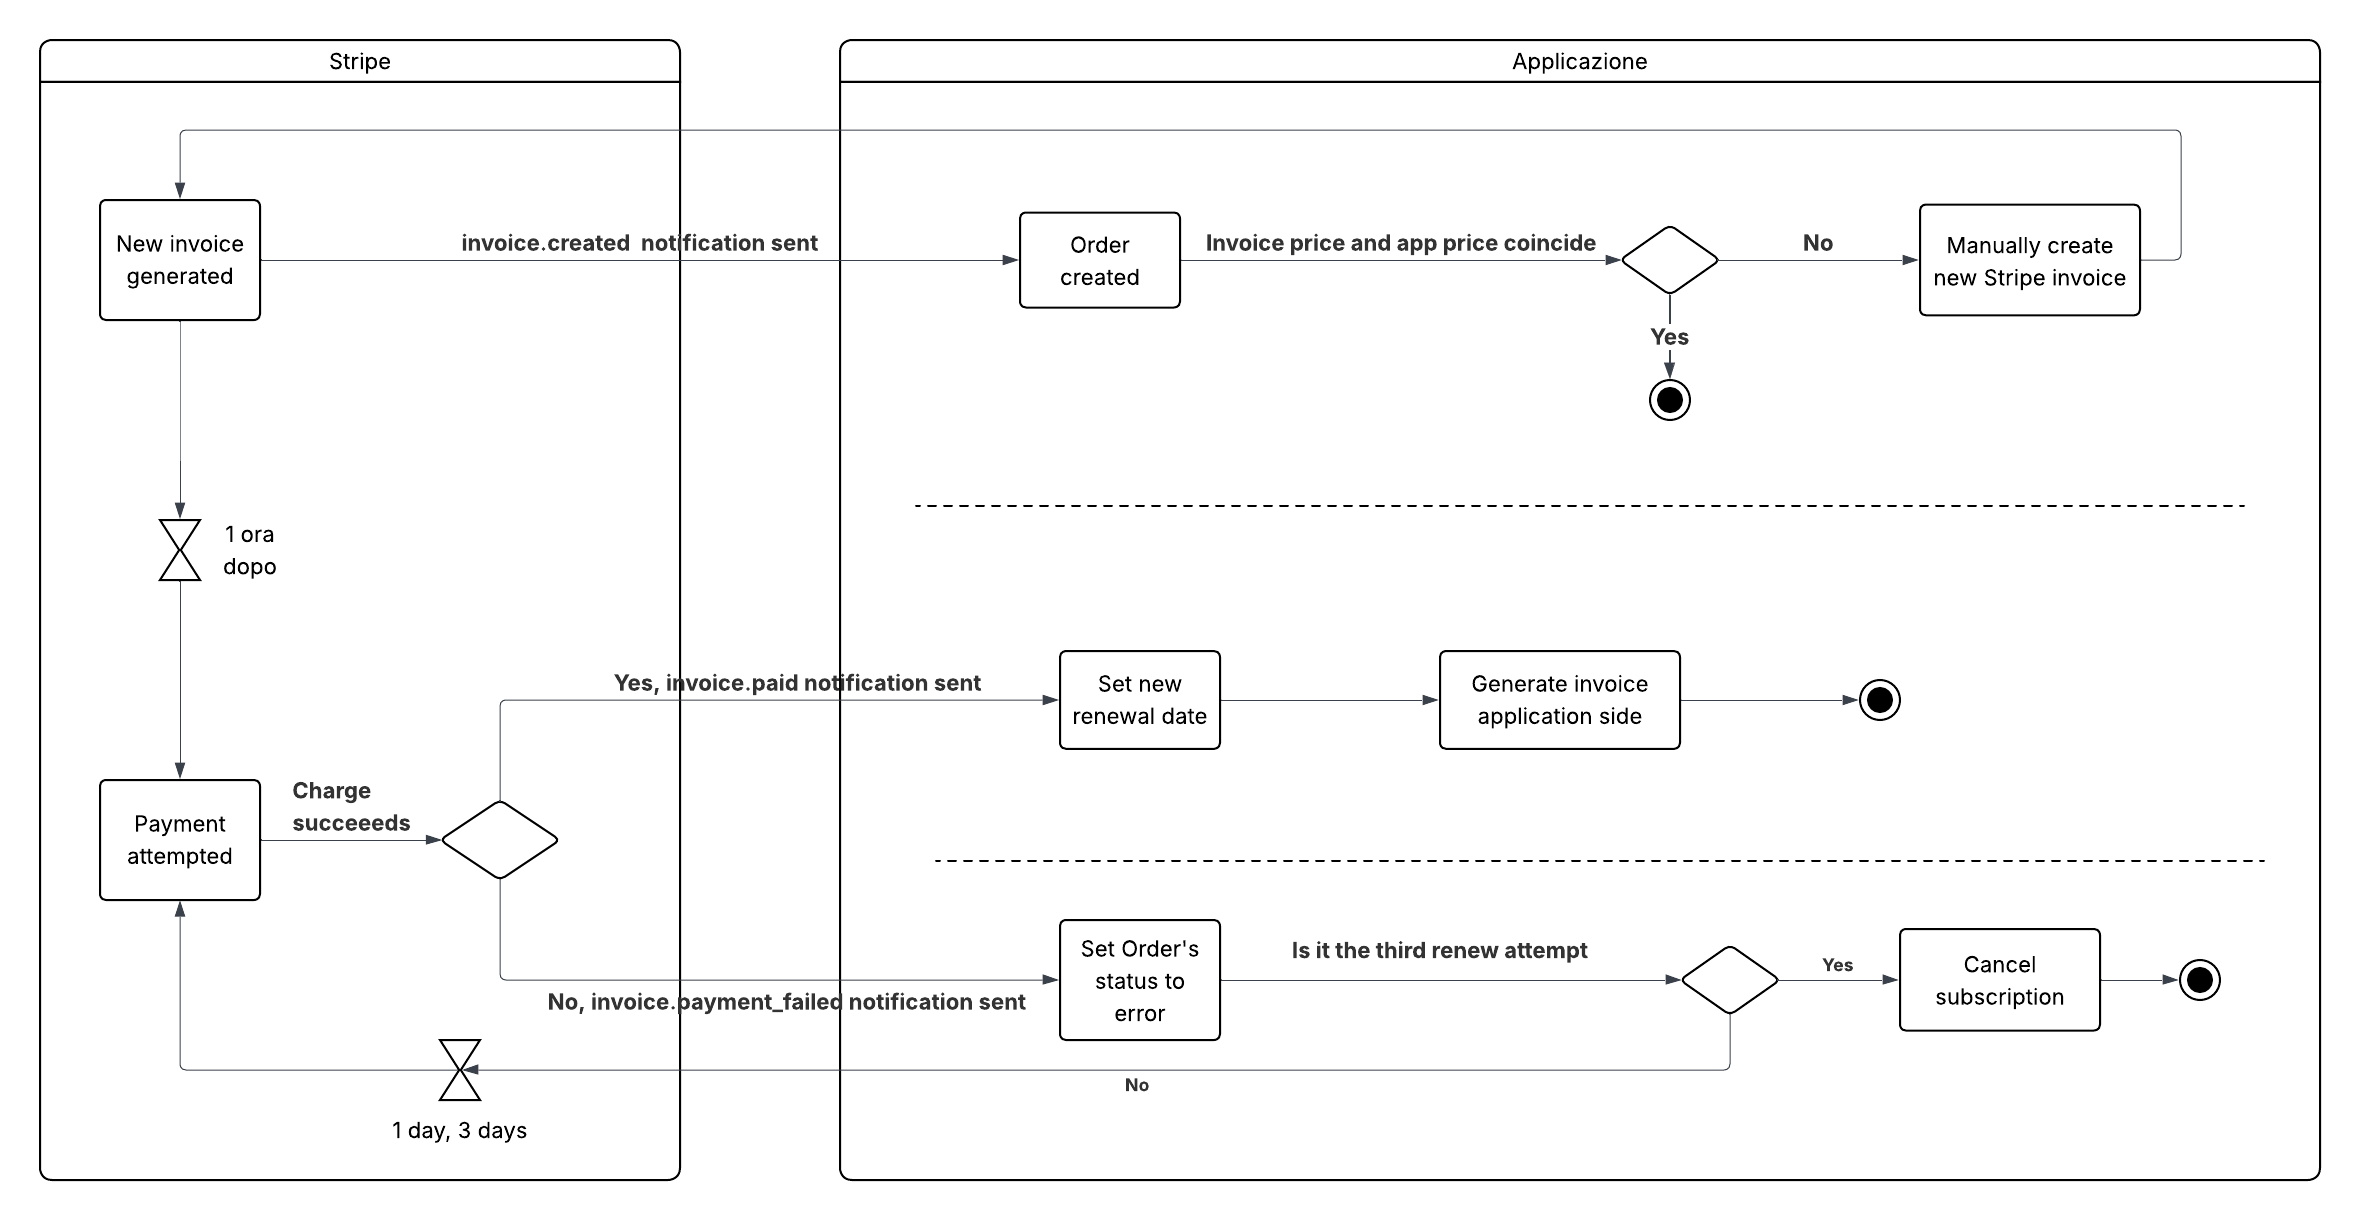
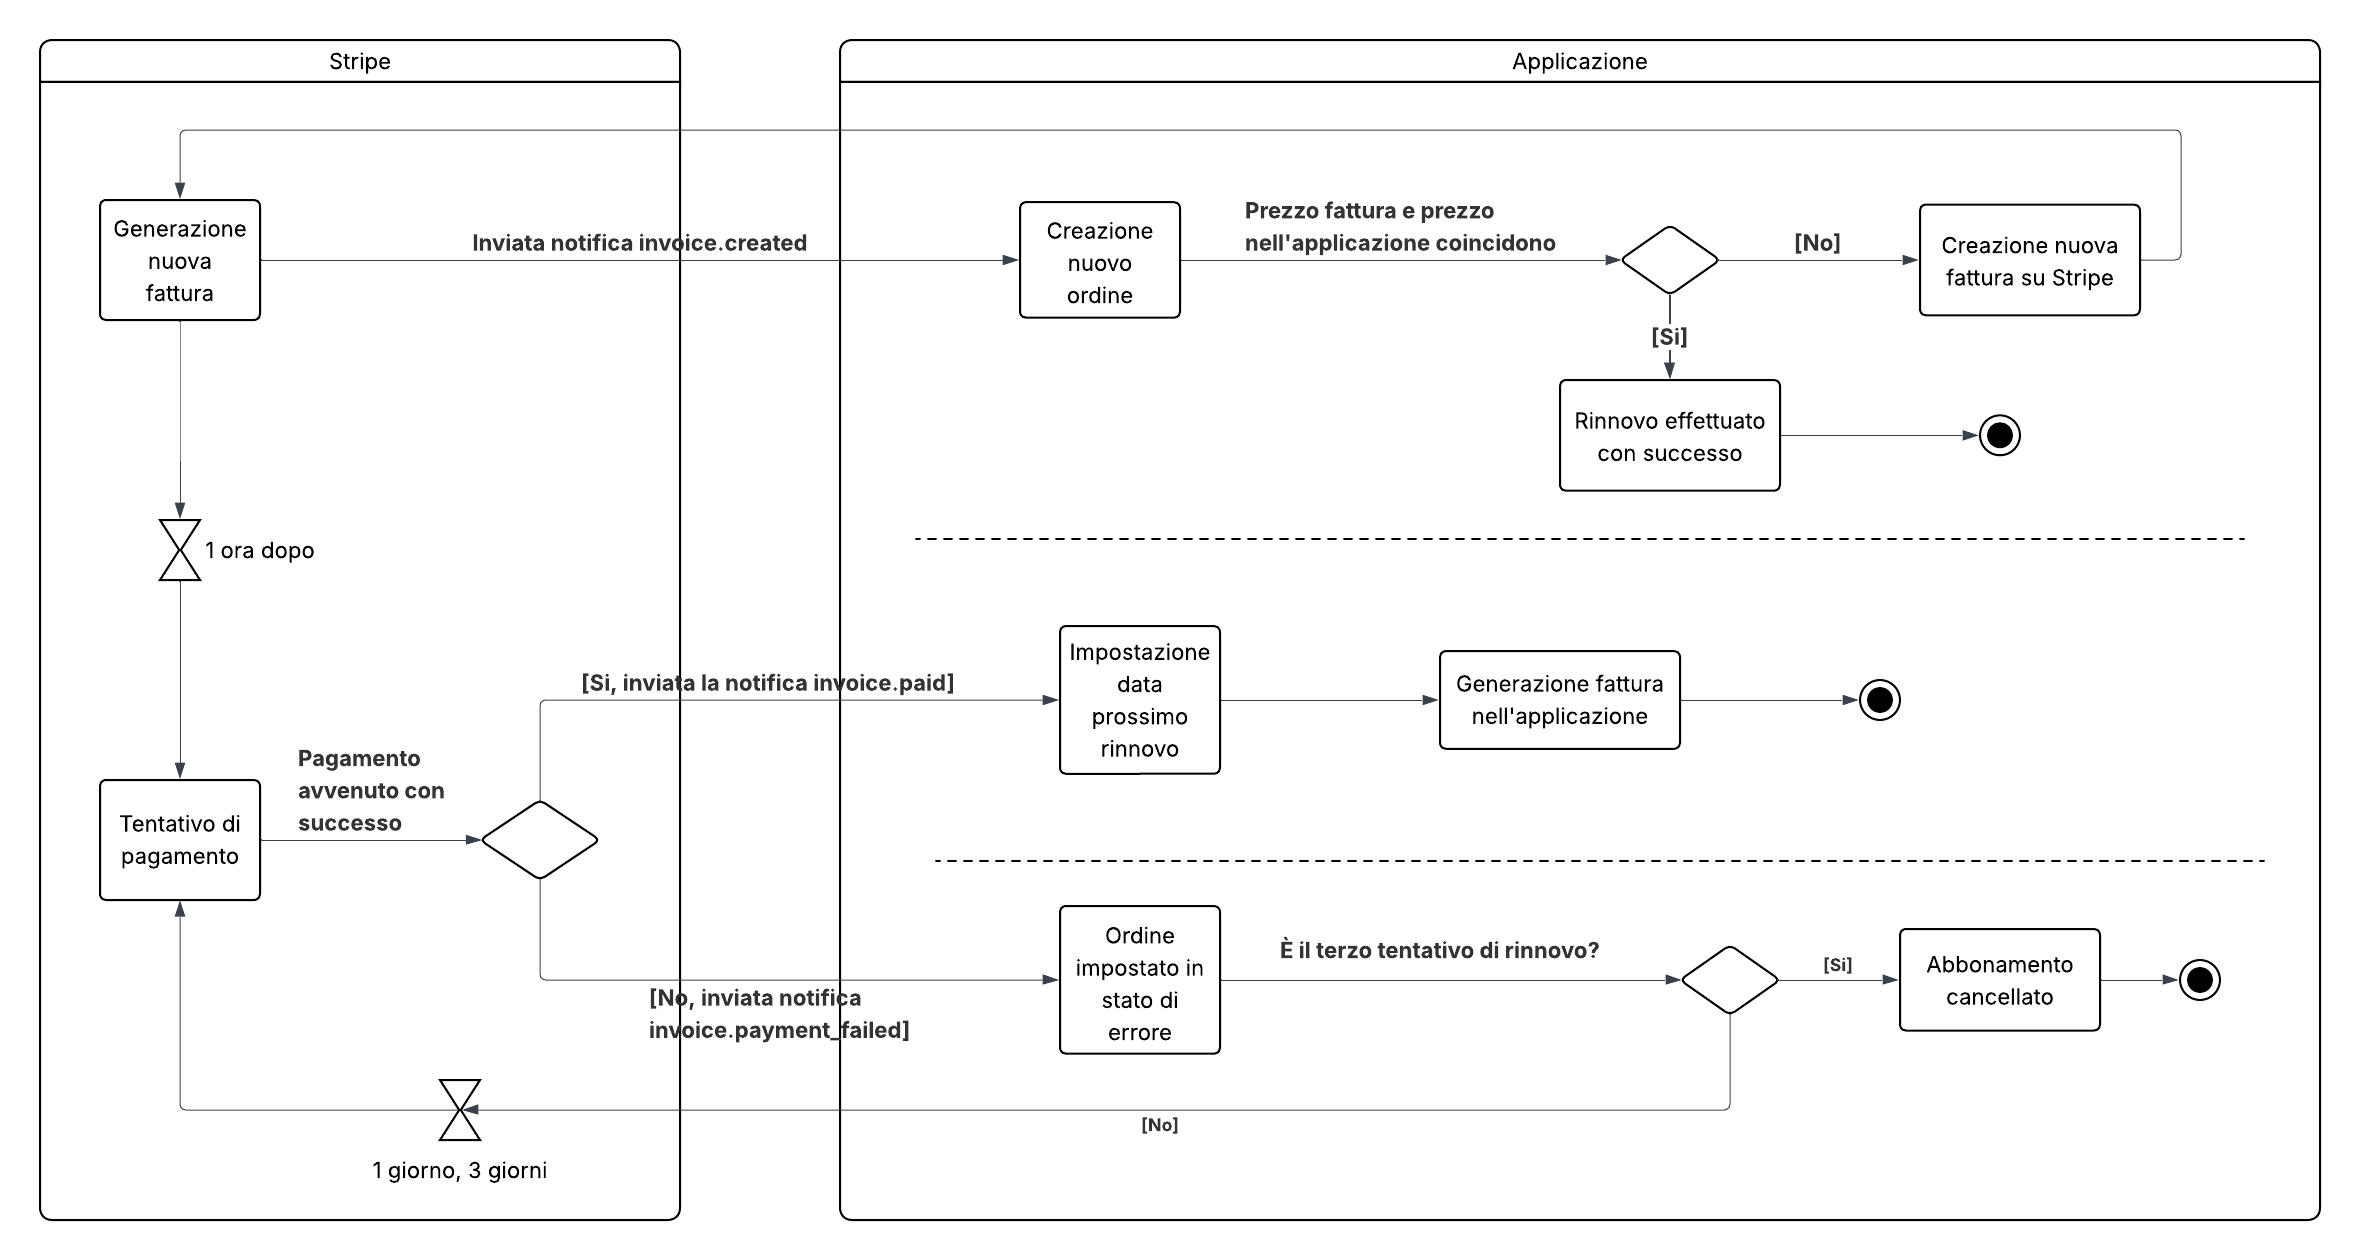
chore: added last charts and fixed fonts and typos

diff --git a/thesis_radulescu.tex b/thesis_radulescu.tex
@@ -255,7 +255,7 @@ e leggibile. Ad oggi l'ultima versione di Ruby pubblicata è la 3.3.9 datata il 
 
 \begin{figure}[h]
 \centering
-\includegraphics[width=0.8\linewidth]{Sequence Diagram pattern MVC.png}
+\includegraphics[width=1\linewidth]{Sequence Diagram pattern MVC.png}
 \caption{Sequence diagram che illustra il flusso di interazione fra i componenti del pattern MVC}
 \label{fig:mvc-sequence}
 \end{figure}
@@ -609,8 +609,8 @@ intende acquistare essi necessitano di dati ausiliari da parte del cliente per f
 \end{figure}
 
 La pagina \ref{fig:cart} è quella del carrello configurato, che presenta la lista dei prodotti configurati pronti per essere acquistati e un riquadro sulla destra che riassume i prezzi e il totale prima
-dell'applicazione dell'IVA. I prodotti sono gestiti attraverso il modello dati generico \texttt{OrderItem} e una polymorphic reference al modello dati del prodotto in sè. Questo vuol dire che per
-acquistare un Domain Monitoring ci sarà un'istanza della classe \texttt{Monitoring} che contiene tutte le informazioni del servizio legata via una relazione 1 a 1 ad un'istanza della classe \textit{OrderItem}
+dell'applicazione dell'IVA. I prodotti sono gestiti attraverso il modello dati generico \textit{OrderItem} e una polymorphic reference al modello dati del prodotto in sè. Questo vuol dire che per
+acquistare un Domain Monitoring ci sarà un'istanza della classe \textit{Monitoring} che contiene tutte le informazioni del servizio legata via una relazione 1 a 1 ad un'istanza della classe \textit{OrderItem}
 che è l'oggetto utilizzato nel flusso della fatturazione. Quindi al momento ci sono in gioco tutte le classi necessarie: \textit{Order}, \textit{OrderItem} e \textit{Monitoring}.
 
 \begin{figure}[h]
@@ -619,8 +619,8 @@ che è l'oggetto utilizzato nel flusso della fatturazione. Quindi al momento ci 
 \caption{Wireframe della pagina del carrello configurato}
 \label{fig:complete_order}
 \end{figure}
-Cliccando il pulsante situato nel riquadro del sommario, scatta una funzione del backend che calcola l'IVA da applicare al totale e il carrello passa in stato \texttt{to\_pay} per poi direzionare
-l'utente alla schermata \ref{fig:complete_order}. Questo è l'ultimo passaggio da risolvere prima di completare l'acquisto. La pagina presenta il sommario nel riquadro sulla destra come in quella
+Cliccando il pulsante situato nel riquadro del sommario, scatta una funzione del backend che calcola l'IVA da applicare al totale e il carrello passa in stato \texttt{to\_pay}. L'utente viene poi
+reindirizzato alla schermata \ref{fig:complete_order}. Questo è l'ultimo passaggio da risolvere prima di completare l'acquisto. La pagina presenta il sommario nel riquadro sulla destra come in quella
 precedente con l'IVA calcolata, una sezione che presenta la lista dei profili di fatturazione registrati con un un pulsante per aprire una modale ed eventualmente aggiungerne uno nuovo e una sezione
 sottostante per inserire il metodo di pagamento.
 
@@ -642,32 +642,41 @@ I prodotti una tantum hanno un loro metodo di gestione aggiuntivo che viene eseg
 La tesi si concentra sulla gestione dei prodotti a pagamento ricorrente quindi procedendo sarà assunto che il carrello contenga solo abbonamenti.
 Viene dunque creato un job asincrono che andrà di pari passo con il processo di pagamento che procede dal lato di Stripe. In base a come questo job si concluderà il back end riferirà al front end l'esito
 per comunicare all'utente il successo del pagamento oppure ridirezionarlo al carrello ed inviare una notifica contenente il motivo del fallimento di esso. Le notifiche possono essere visualizzate
-cliccando l'icona della campanella accanto a quella del carrello. Quest'azione apre una modale in cui ci sono i messaggi generati dal backend inviati al frontend.
+cliccando l'icona della campanella accanto a quella del carrello. Quest'azione apre una modale in cui si possono leggere i messaggi generati dal backend inviati al frontend.
 Creato il job che monitora e registra l'esito del pagamento viene lanciato un altro job asincrono che crea gli abbonamenti via API di Stripe generando gli oggetti \textit{Subscription} nel profilo del
 cliente su Stripe. Con la creazione di questi oggetti via API vengono registrate su Stripe tutte le informazioni necessarie fra cui il metodo di pagamento su cui addebitare i rinnovi e la frequenza
 di rinnovo. Al momento della creazione di ogni abbonamento viene personalizzata la fattura associata, tentato il primo pagamento e generata la fattura dal lato dell'applicazione in caso di successo.
 Viene sfruttato il sistema di callback di Stripe ossia delle notifiche con contenuto JSON che l'applicazione può leggere e utilizzarne i dati attraverso un controller dedicato ai webhooks.
 Se il pagamento di una fattura fallisce Stripe genera una notifica di tipo \texttt{invoice.payment\_failed} che attraverso un costrutto case e un controllo sul tipo di transazione viene incanalata
 nel blocco corretto che ne utilizza i dati e attiva procedure di gestione dell'errore. Invece quando il pagamento ha successo Stripe genera una notifica di tipo \texttt{invoice.paid} in cui viene
-chiamato il resolver del job  scritto nella classe \texttt{Order} associato al processo di pagamento una volta che tutti i pagamenti sono andati a buon fine.
+chiamato il resolver del job  scritto nella classe \textit{Order} associato al processo di pagamento una volta che tutti i pagamenti sono andati a buon fine.
 È suddiviso in una porzione eseguita per ogni abbonamento che salva sull'istanza di esso la data di rinnovo comunicata da Stripe via callback e un'altra che viene eseguita quando l'ordine è stato
 completamente processato che salva ulteriori informazioni fra cui l'identificativo del metodo di pagamento e imposta l'ordine come pagato. A questo punto imposta lo stato dell'istanza del job da
 \texttt{running} a \texttt{completed} segnando la fine del processo di pagamento e della fase del carrello. Nel caso in cui il pagamento di un abbonamento fallisca Stripe invia una notifica di tipo
 \texttt{invoice.payment\_failed} che viene ricevuta dal controller dei webhooks e imposta lo stato del job a \texttt{error} per poi notificare il cliente la causa del mancato pagamento e riportarlo
 alla schermata \ref{fig:cart} in cui troverà i prodotti per cui il pagamento non è andato a buon fine e potrà ritentare il loro acquisto.
-
-% Possibile aggiunta di flowchart
+\begin{figure}[h]
+\centering
+\includegraphics[width=0.7\linewidth]{Payment sequence.png}
+\caption{Sequence diagram della generazione e pagamento degli abbonamenti}
+\label{fig:payment_sequence}
+\end{figure}
 
 \section{Fase dell'Advanced Scanning}
 
-% mettere elenco job oppure flowchart
+\begin{figure}[h]
+\centering
+\includegraphics[width=0.8\linewidth]{Advanced scan.png}
+\caption{Activity diagram dell'Advanced Scan}
+\label{fig:advanced_scan}
+\end{figure}
 
 Una volta che il prodotto è stato correttamente acquistato si passa alla fase di reperimento dei dati da mostrare al cliente sul dominio da monitorare. Procedendo sarà considerata l'elaborazione di
 una generica istanza di \textit{Monitoring} dato che in caso ci siano più istanze da elaborare viene iterato lo stesso processo per ognuna di esse. Al momento sono in gioco l'istanza del monitoring
 e quella del risultato della Discovery eseguita al momento della ricerca del dominio interessato.
 I dati vengono ricavati attraverso un'analisi diversa dalla Discovery eseguita sempre dal server di RabbitMQ sulla base di parametri inseriti nella richiesta che dipendono dal piano di abbonamento.
 È stato definito un job asincrono che attraverso la gemma sidekiq\_cron viene eseguito ogni 5 minuti che rileva le istanze degli abbonamenti che sono attivi e hanno una data di rinnovo più avanti
-nel tempo rispetto alla data attuale, come nel caso degli abbonamenti appena acquistati. Per ogni istanza di \texttt{Monitoring} rilevata viene eseguita una nuova Discovery con più parametri di ricerca
+nel tempo rispetto alla data attuale, come nel caso degli abbonamenti appena acquistati. Per ogni istanza di \textit{Monitoring} rilevata viene eseguita una nuova Discovery con più parametri di ricerca
 in modo da avere informazioni più dettagliate. Prodotto il nuovo risultato di Discovery, viene elaborata una nuova istanza di \textit{MonitoringResult} che viene sostituita a quella creata con la prima
 ricerca. Il modello dati della classe \textit{MonitoringResult} include un attributo flag dedito a testimoniare se la scansione avanzata sia stata eseguita oppure no e questo viene utilizzato da un altro
 job asincrono che viene eseguito ogni 2 minuti e rileva tutti quelli che hanno tale flag ancora impostato a false. Trovato il record per cui bisogna effettuare la scansione avanzata viene letto il
@@ -681,7 +690,7 @@ Quando il server ha elaborato un pacchetto di domini pubblica il risultato dell'
 asincrono. Il pacchetto ripubblicato consiste nei domini inviati a cui sono state aggiunte diverse informazioni in base ai parametri inviati nella richiesta. Alcune di queste informazioni più rilevanti
 riguardante un dominio nella risposta sono l'indirizzo IP, i Name Servers (NS) e i Mail eXchanger (MX) associati, il titolo della homepage in HTML, una serie di informazioni sul livello di sicurezza
 come la presenza di certificati e altri. Associato ad ogni pacchetto si trova un sommario del processo di cui fa parte quel pacchetto in cui ci sono scritte informazioni come il numero totale di domini
-con status Available. Ogni pacchetto è comprensivo dell'identificativo del job associato lato applicazione in modo che vi si possa applicare il resolver della classe \texttt{MonitoringResult}.
+con status Available. Ogni pacchetto è comprensivo dell'identificativo del job associato lato applicazione in modo che vi si possa applicare il resolver della classe \textit{MonitoringResult}.
 Questo resolver imposta nell'immediato lo status del job a \texttt{completed} e salva su AWS S3 una copia JSON della risposta così com'è.
 Avere una copia "grezza" di ciò che è arrivato in prima battuta dal
 \begin{figure}[h]
@@ -731,7 +740,7 @@ Le notifiche che riguardano i rinnovi hanno un attributo \texttt{billing\_reason
 impostato a "\texttt{subscription\_create}".
 Quando arriva il momento di un rinnovo di un abbonamento Stripe genera automaticamente la fattura relativa al pagamento da eseguire e invia una notifica di tipo "\texttt{invoice.created}" e
 l'applicazione è messa al corrente dell'evento. Il blocco di codice eseguito nel momento della ricezione della notifica ha la funzione di trattare il rinnovo come se fosse un nuovo ordine di acquisto.
-Dalle informazioni presenti nella notifica si risale all'istanza di \texttt{Monitoring}, al cliente e al profilo di fatturazione coinvolti. Con questi dati viene creato un nuovo carrello impostato come
+Dalle informazioni presenti nella notifica si risale all'istanza di \textit{Monitoring}, al cliente e al profilo di fatturazione coinvolti. Con questi dati viene creato un nuovo carrello impostato come
 già pagato e viene associata l'istanza di \textit{OrderItem} che sarà ciò che dal lato dell'applicazione sarà contato come oggetto di acquisto. Dopodiché vengono scritti sulla fattura presente su
 Stripe dei metadata di riferimento che torneranno utili nei prossimi passaggi, in particolare l'identificativo dell'istanza di \textit{Order} appena creata. Dopo questi passaggi è stato aggiunto un
 blocco di codice che gestisce eventuali cambio di prezzo dell'abbonamento in caso l'utente abbia cambiato il piano di abbonamento precedentemente. Questo blocco controlla se il prezzo della fattura
@@ -771,10 +780,10 @@ denaro avanzato e rimborsi, cosa che il committente non aveva richiesto.
 
 \begin{figure}[h]
 \centering
-\includegraphics[width=0.3\linewidth]{Flowchart.png}
-\caption{Activity diagram che mostra il funzionamento della funzionalità}
+\includegraphics[width=0.6\linewidth]{Functionality Flowchart.png}
+\caption{Activity diagram che mostra il flusso della funzionalità}
 \label{fig:flowchart}
-\end{figure} % TODO: refactorizzare diagramma
+\end{figure}
 
 \chapter{Valutazione}
 
@@ -837,7 +846,14 @@ che uno sviluppatore non farebbe. Se le obiezioni risultano critiche il project 
 tornare indietro e confermare l'esistenza di un problema replicandolo oppure fornire spiegazioni sul perché il software si comporti in quel modo. Dopo questi processi di testing la funzionalità viene
 considerata validata all'interno dell'azienda e viene rilasciata in ambiente di staging in modo che il cliente possa provare in prima persona quanto è stato sviluppato, comunicare se le aspettative
 sono state soddisfatte e fornire feedback. Superato anche questo tipo di testing si può procedere al rilascio effettivo in ambiente di produzione come versione successiva del software e gli utenti
-possono usufruirne. % Flowchart testing da mettere
+possono usufruirne.
+
+\begin{figure}[h]
+\centering
+\includegraphics[width=1\linewidth]{Testing flowchart.png}
+\caption{Activity diagram del flusso di testing di una funzionalità}
+\label{fig:testing_flowchart}
+\end{figure}
 
 \section{Problemi riscontrati durante il testing}
 
